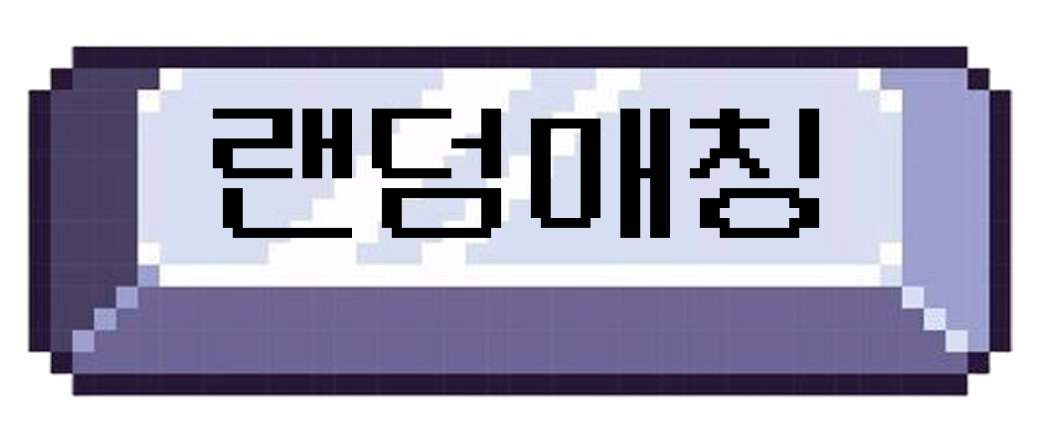
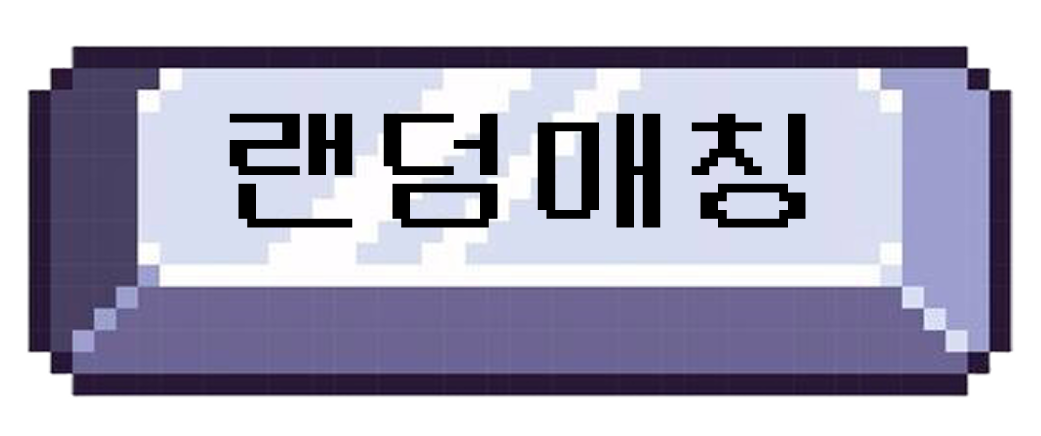
main UI

Changed region(s): [[0.1844, 0.2385, 0.7992, 0.5665]]

diff --git a/Front/codenova/src/pages/main/MainPage.jsx b/Front/codenova/src/pages/main/MainPage.jsx
@@ -126,11 +126,11 @@ const MainPage = () => {
           </div>
 
           {/* 버튼 묶음 */}
-          <div className="absolute top-40 w-full flex flex-col items-center gap-2">
-            <img src={singleBtn} alt="Single Mode" className="w-[10rem] cursor-pointer transition-all duration-150 hover:brightness-110 hover:translate-y-[2px] hover:scale-[0.98] active:scale-[0.95]" 
+          <div className="absolute top-44 w-full flex flex-col items-center gap-6">
+            <img src={singleBtn} alt="Single Mode" className="w-[11rem] cursor-pointer transition-all duration-150 hover:brightness-110 hover:translate-y-[2px] hover:scale-[0.98] active:scale-[0.95]" 
             onClick={() => navigate("/single/select/language")}
             />
-            <img src={multiBtn} alt="Multi Mode" className="w-[10rem] cursor-pointer transition-all duration-150 hover:brightness-110 hover:translate-y-[2px] hover:scale-[0.98] active:scale-[0.95]" 
+            <img src={multiBtn} alt="Multi Mode" className="w-[11rem] cursor-pointer transition-all duration-150 hover:brightness-110 hover:translate-y-[2px] hover:scale-[0.98] active:scale-[0.95]" 
             onClick={handleMultiClick}
             />
           </div>
@@ -161,23 +161,23 @@ const MainPage = () => {
           </div> */}
 
           {/* 버튼 묶음 */}
-          <div className="absolute top-24 w-full flex flex-col items-center gap-2">
+          <div className="absolute top-28 w-full flex flex-col items-center gap-4">
             <img
               src={makeRoomBtn}
               alt="Make Room"
               onClick={handleCreateMeteoRoom}
-              className="w-[10rem] cursor-pointer transition-all duration-150 hover:brightness-110 hover:translate-y-[2px] hover:scale-[0.98] active:scale-[0.95]"
+              className="w-[11rem] cursor-pointer transition-all duration-150 hover:brightness-110 hover:translate-y-[2px] hover:scale-[0.98] active:scale-[0.95]"
             />
             <img
               src={goRoomBtn}
               alt="Enter Room"
               onClick={() => setShowRoomModal(true)}
-              className="w-[10rem] cursor-pointer transition-all duration-150 hover:brightness-110 hover:translate-y-[2px] hover:scale-[0.98] active:scale-[0.95]"
+              className="w-[11rem] cursor-pointer transition-all duration-150 hover:brightness-110 hover:translate-y-[2px] hover:scale-[0.98] active:scale-[0.95]"
             />
                       <img
             src={randomBtn}
             alt="랜덤매칭"
-            className="w-[10rem] cursor-pointer hover:brightness-110 hover:scale-105 transition-transform"
+            className="w-[11rem] cursor-pointer hover:brightness-110 hover:scale-105 transition-transform"
             onClick={handleRandomMatch}
           />
           </div>

diff --git a/Front/codenova/src/components/modal/RoomCodeModal.jsx b/Front/codenova/src/components/modal/RoomCodeModal.jsx
@@ -5,19 +5,15 @@ import randomBtn from "../../assets/images/gorandom_button.png";
 import useAuthStore from "../../store/authStore";
 import { useNavigate } from "react-router-dom";
 import { joinMeteoRoom, offRandomMatch, onRandomMatch, onRandomMatchResponse } from "../../sockets/meteoSocket";
-import CustomAlert from "../common/CustomAlert";
 
 const RoomCodeModal = ({ onClose }) => {
   const [roomCodeInput, setRoomCodeInput] = useState("");
   const nickname = useAuthStore((state) => state.user?.nickname);
   const navigate = useNavigate();
-  const [showAlert, setShowAlert] = useState(false);
-  const [alertMessage, setAlertMessage] = useState("");
-  
+
   const handleEnterRoom = () => {
     if (!roomCodeInput) {
-      setAlertMessage("방코드를 입력하세요!");
-      setShowAlert(true);
+      alert("방코드를 입력하세요!");
       return;
     }
     if (!nickname) {
@@ -41,11 +37,12 @@ const RoomCodeModal = ({ onClose }) => {
         onClose(); // 모달 닫기
       },
       (errorMessage) => {
-        setAlertMessage("❌ 방 코드가 틀렸습니다.");
-        setShowAlert(true);
+        // console.error("❌ 방 입장 실패:", errorMessage);
+        alert("❌ 방 코드가 틀렸습니다.");
+  
+        // ✅ 실패하면 input 초기화 (선택사항)
         setRoomCodeInput(""); 
       }
-      
     );
   };
   
@@ -88,7 +85,7 @@ const RoomCodeModal = ({ onClose }) => {
 
       {/* 모달 박스 */}
       <div
-        className="relative z-50 w-[40rem] h-autoj px-6 py-8 flex flex-col items-center justify-center"
+        className="relative z-50 w-[42rem] h-[20rem] px-6 py-8 flex flex-col items-center justify-center"
         style={{
           backgroundImage: `url(${modalBg})`,
           backgroundSize: "cover",
@@ -128,14 +125,6 @@ const RoomCodeModal = ({ onClose }) => {
           /> */}
         </div>
       </div>
-      {showAlert && (
-        <CustomAlert
-          message={alertMessage}
-          onConfirm={() => setShowAlert(false)}
-          confirmText="확인"
-        />
-      )}
-
     </div>
   );
 };

diff --git a/Front/codenova/src/pages/multi/MultiPage.jsx b/Front/codenova/src/pages/multi/MultiPage.jsx
@@ -225,7 +225,7 @@ const MultiPage = () => {
 
       <button
         onClick={() => navigate("/main")}
-        className="absolute bottom-24 right-0 w-[9rem] h-[3rem] bg-contain bg-no-repeat bg-center hover:brightness-110 hover:scale-[0.98] active:scale-[0.95] transition"
+        className="absolute bottom-24 right-0 w-[11rem] h-[3rem] bg-contain bg-no-repeat bg-center hover:brightness-110 hover:scale-[0.98] active:scale-[0.95] transition"
         style={{ backgroundImage: `url(${goOutBtn})` }}
       >
       </button>
